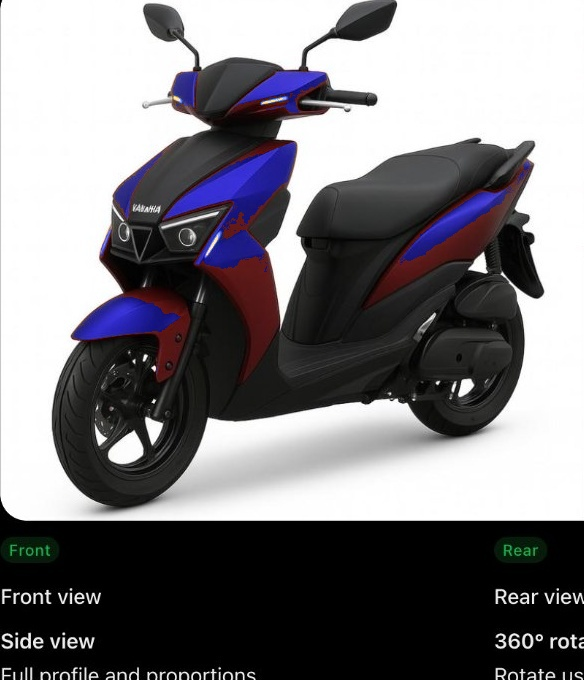
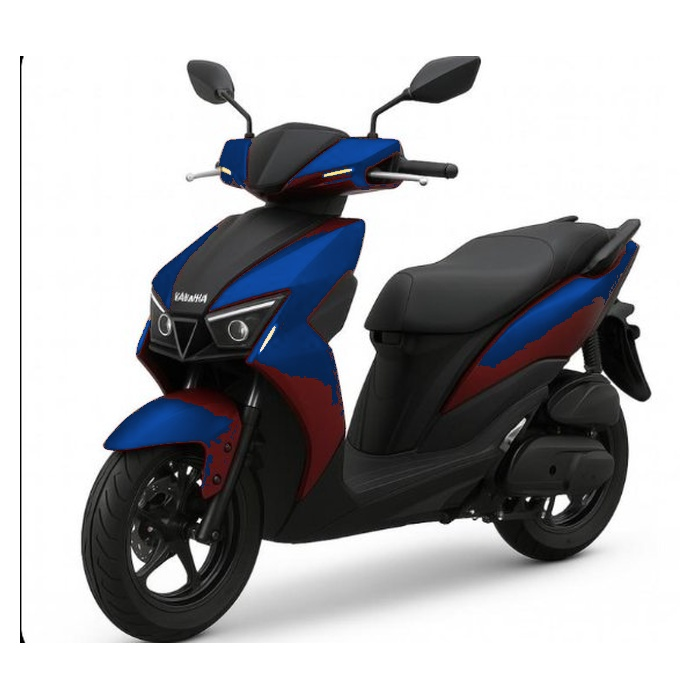
fix: resolve vehicle detail overlapping buttons, clean crop borders and reposition angle pills

diff --git a/mobile/customer_app/lib/features/catalog/presentation/model_detail_page.dart b/mobile/customer_app/lib/features/catalog/presentation/model_detail_page.dart
@@ -889,16 +889,6 @@ class _BikeWale360ViewerState extends State<_BikeWale360Viewer> {
       _degrees,
     );
 
-    final colorName = (widget.color?.colorName ?? '').toLowerCase();
-    String prefix = 'scooter';
-    if (colorName.contains('blue') || colorName.contains('racing')) {
-      prefix = 'scooter_blue';
-    } else if (colorName.contains('black') || colorName.contains('dark')) {
-      prefix = 'scooter_black';
-    } else if (colorName.contains('grey') || colorName.contains('silver')) {
-      prefix = 'scooter_grey';
-    }
-
     return GestureDetector(
       onHorizontalDragUpdate: (details) {
         if (_isAutoSpinning) _toggleAutoSpin();
@@ -953,7 +943,7 @@ class _BikeWale360ViewerState extends State<_BikeWale360Viewer> {
             // Main Vehicle Photography Display (100% visible, BoxFit.contain)
             Center(
               child: Padding(
-                padding: const EdgeInsets.fromLTRB(16, 20, 16, 50),
+                padding: const EdgeInsets.fromLTRB(20, 68, 20, 56),
                 child: Transform(
                   alignment: Alignment.center,
                   transform: isMirrored ? Matrix4.rotationY(math.pi) : Matrix4.identity(),
@@ -965,51 +955,21 @@ class _BikeWale360ViewerState extends State<_BikeWale360Viewer> {
               ),
             ),
 
-            // Top Mode Selection Pills (Matching Image 1)
-            Positioned(
-              top: 52,
-              left: 14,
-              child: Wrap(
-                spacing: 6,
-                children: [
-                  _modePill('Front', _ViewMode.front, Icons.arrow_upward_rounded),
-                  _modePill('Rear', _ViewMode.rear, Icons.arrow_downward_rounded),
-                  _modePill('Side', _ViewMode.side, Icons.swap_horiz_rounded),
-                  _modePill('360°', _ViewMode.rotation360, Icons.sync_rounded),
-                ],
-              ),
-            ),
-
-            // Right-side angle thumbnails preview gallery (Matching Image 1)
-            Positioned(
-              right: 12,
-              top: 60,
-              child: Column(
-                children: [
-                  _angleThumbnail('Front', 'assets/images/vehicles/${prefix}_front.jpg', _ViewMode.front),
-                  const SizedBox(height: 8),
-                  _angleThumbnail('Rear', 'assets/images/vehicles/${prefix}_rear.jpg', _ViewMode.rear),
-                  const SizedBox(height: 8),
-                  _angleThumbnail('Side', 'assets/images/vehicles/${prefix}_side.jpg', _ViewMode.side),
-                ],
-              ),
-            ),
-
             // Bottom 360 Scrubber & Controller (Active when 360° rotation selected)
             if (_activeMode == _ViewMode.rotation360)
               Positioned(
-                bottom: 8,
-                left: 14,
-                right: 14,
+                bottom: 58,
+                left: 20,
+                right: 20,
                 child: Container(
-                  padding: const EdgeInsets.symmetric(horizontal: 10, vertical: 5),
+                  padding: const EdgeInsets.symmetric(horizontal: 10, vertical: 4),
                   decoration: BoxDecoration(
-                    color: const Color(0xFF0F172A).withValues(alpha: 0.90),
+                    color: const Color(0xFF0F172A).withValues(alpha: 0.92),
                     borderRadius: BorderRadius.circular(16),
                     border: Border.all(color: Colors.white.withValues(alpha: 0.18)),
                     boxShadow: [
                       BoxShadow(
-                        color: Colors.black.withValues(alpha: 0.35),
+                        color: Colors.black.withValues(alpha: 0.25),
                         blurRadius: 10,
                         offset: const Offset(0, 4),
                       ),
@@ -1035,7 +995,7 @@ class _BikeWale360ViewerState extends State<_BikeWale360Viewer> {
                                 trackHeight: 3,
                                 thumbShape: const RoundSliderThumbShape(enabledThumbRadius: 6),
                                 overlayShape: const RoundSliderOverlayShape(overlayRadius: 12),
-                                activeTrackColor: const Color(0xFF38BDF8),
+                                activeTrackColor: const Color(0xFFDC2626),
                                 inactiveTrackColor: Colors.white24,
                                 thumbColor: Colors.white,
                               ),
@@ -1060,7 +1020,7 @@ class _BikeWale360ViewerState extends State<_BikeWale360Viewer> {
                             visualDensity: VisualDensity.compact,
                             padding: EdgeInsets.zero,
                             iconSize: 20,
-                            color: _isAutoSpinning ? const Color(0xFF38BDF8) : Colors.white,
+                            color: _isAutoSpinning ? const Color(0xFFDC2626) : Colors.white,
                             onPressed: _toggleAutoSpin,
                             icon: Icon(
                               _isAutoSpinning ? Icons.pause_circle_filled_rounded : Icons.play_circle_fill_rounded,
@@ -1085,7 +1045,7 @@ class _BikeWale360ViewerState extends State<_BikeWale360Viewer> {
                             Text(
                               '${_degrees.round()}° / 360°',
                               style: const TextStyle(
-                                color: Color(0xFF38BDF8),
+                                color: Color(0xFFEF4444),
                                 fontSize: 10,
                                 fontWeight: FontWeight.w700,
                               ),
@@ -1096,35 +1056,43 @@ class _BikeWale360ViewerState extends State<_BikeWale360Viewer> {
                     ],
                   ),
                 ),
-              )
-            else
-              // Angle Label banner at bottom
-              Positioned(
-                bottom: 12,
-                left: 14,
+              ),
+
+            // Bottom Mode Selection Pills (Centered, Clean, Zero Overlap!)
+            Positioned(
+              bottom: 10,
+              left: 16,
+              right: 16,
+              child: Center(
                 child: Container(
-                  padding: const EdgeInsets.symmetric(horizontal: 10, vertical: 4),
+                  padding: const EdgeInsets.all(4),
                   decoration: BoxDecoration(
-                    color: const Color(0xFF0F172A).withValues(alpha: 0.85),
-                    borderRadius: BorderRadius.circular(8),
+                    color: Colors.white,
+                    borderRadius: BorderRadius.circular(30),
+                    border: Border.all(color: const Color(0xFFE2E8F0)),
+                    boxShadow: [
+                      BoxShadow(
+                        color: Colors.black.withValues(alpha: 0.08),
+                        blurRadius: 10,
+                        offset: const Offset(0, 3),
+                      ),
+                    ],
                   ),
                   child: Row(
                     mainAxisSize: MainAxisSize.min,
                     children: [
-                      const Icon(Icons.visibility_rounded, size: 14, color: Color(0xFF10B981)),
-                      const SizedBox(width: 5),
-                      Text(
-                        _activeMode == _ViewMode.front
-                            ? 'Front View (Fascia & Headlight)'
-                            : (_activeMode == _ViewMode.rear
-                                ? 'Rear View (Exhaust & Tail lamp)'
-                                : 'Side View (Full Profile)'),
-                        style: const TextStyle(color: Colors.white, fontSize: 11, fontWeight: FontWeight.w700),
-                      ),
+                      _modePill('Front', _ViewMode.front, Icons.arrow_upward_rounded),
+                      const SizedBox(width: 4),
+                      _modePill('Rear', _ViewMode.rear, Icons.arrow_downward_rounded),
+                      const SizedBox(width: 4),
+                      _modePill('Side', _ViewMode.side, Icons.swap_horiz_rounded),
+                      const SizedBox(width: 4),
+                      _modePill('360°', _ViewMode.rotation360, Icons.sync_rounded),
                     ],
                   ),
                 ),
               ),
+            ),
           ],
         ),
       ),
@@ -1137,21 +1105,10 @@ class _BikeWale360ViewerState extends State<_BikeWale360Viewer> {
       onTap: () => _selectMode(mode),
       child: AnimatedContainer(
         duration: const Duration(milliseconds: 180),
-        padding: const EdgeInsets.symmetric(horizontal: 10, vertical: 5),
+        padding: const EdgeInsets.symmetric(horizontal: 12, vertical: 6),
         decoration: BoxDecoration(
-          color: active ? const Color(0xFF0F172A) : Colors.white.withValues(alpha: 0.90),
-          borderRadius: BorderRadius.circular(20),
-          border: Border.all(
-            color: active ? const Color(0xFF0F172A) : const Color(0xFFCBD5E1),
-            width: 1.2,
-          ),
-          boxShadow: [
-            BoxShadow(
-              color: Colors.black.withValues(alpha: active ? 0.2 : 0.04),
-              blurRadius: 4,
-              offset: const Offset(0, 1),
-            ),
-          ],
+          color: active ? const Color(0xFFDC2626) : Colors.transparent,
+          borderRadius: BorderRadius.circular(24),
         ),
         child: Row(
           mainAxisSize: MainAxisSize.min,
@@ -1159,66 +1116,15 @@ class _BikeWale360ViewerState extends State<_BikeWale360Viewer> {
             Icon(
               icon,
               size: 13,
-              color: active ? const Color(0xFF10B981) : const Color(0xFF475569),
+              color: active ? Colors.white : const Color(0xFF64748B),
             ),
             const SizedBox(width: 4),
             Text(
               label,
               style: TextStyle(
-                fontSize: 11.5,
-                fontWeight: FontWeight.w800,
-                color: active ? Colors.white : const Color(0xFF1E293B),
-              ),
-            ),
-          ],
-        ),
-      ),
-    );
-  }
-
-  Widget _angleThumbnail(String label, String imageAsset, _ViewMode mode) {
-    final active = _activeMode == mode;
-    return GestureDetector(
-      onTap: () => _selectMode(mode),
-      child: Container(
-        width: 58,
-        height: 52,
-        decoration: BoxDecoration(
-          color: Colors.white,
-          borderRadius: BorderRadius.circular(10),
-          border: Border.all(
-            color: active ? const Color(0xFFDC2626) : const Color(0xFFCBD5E1),
-            width: active ? 2.5 : 1.0,
-          ),
-          boxShadow: [
-            BoxShadow(
-              color: Colors.black.withValues(alpha: active ? 0.22 : 0.06),
-              blurRadius: 6,
-              offset: const Offset(0, 2),
-            ),
-          ],
-        ),
-        clipBehavior: Clip.antiAlias,
-        child: Stack(
-          children: [
-            Center(
-              child: Padding(
-                padding: const EdgeInsets.all(2),
-                child: Image.asset(imageAsset, fit: BoxFit.contain),
-              ),
-            ),
-            Positioned(
-              bottom: 0,
-              left: 0,
-              right: 0,
-              child: Container(
-                color: (active ? const Color(0xFFDC2626) : Colors.black87).withValues(alpha: 0.8),
-                padding: const EdgeInsets.symmetric(vertical: 1.5),
-                child: Text(
-                  label,
-                  textAlign: TextAlign.center,
-                  style: const TextStyle(color: Colors.white, fontSize: 8.5, fontWeight: FontWeight.w900),
-                ),
+                fontSize: 12,
+                fontWeight: active ? FontWeight.w800 : FontWeight.w600,
+                color: active ? Colors.white : const Color(0xFF334155),
               ),
             ),
           ],
